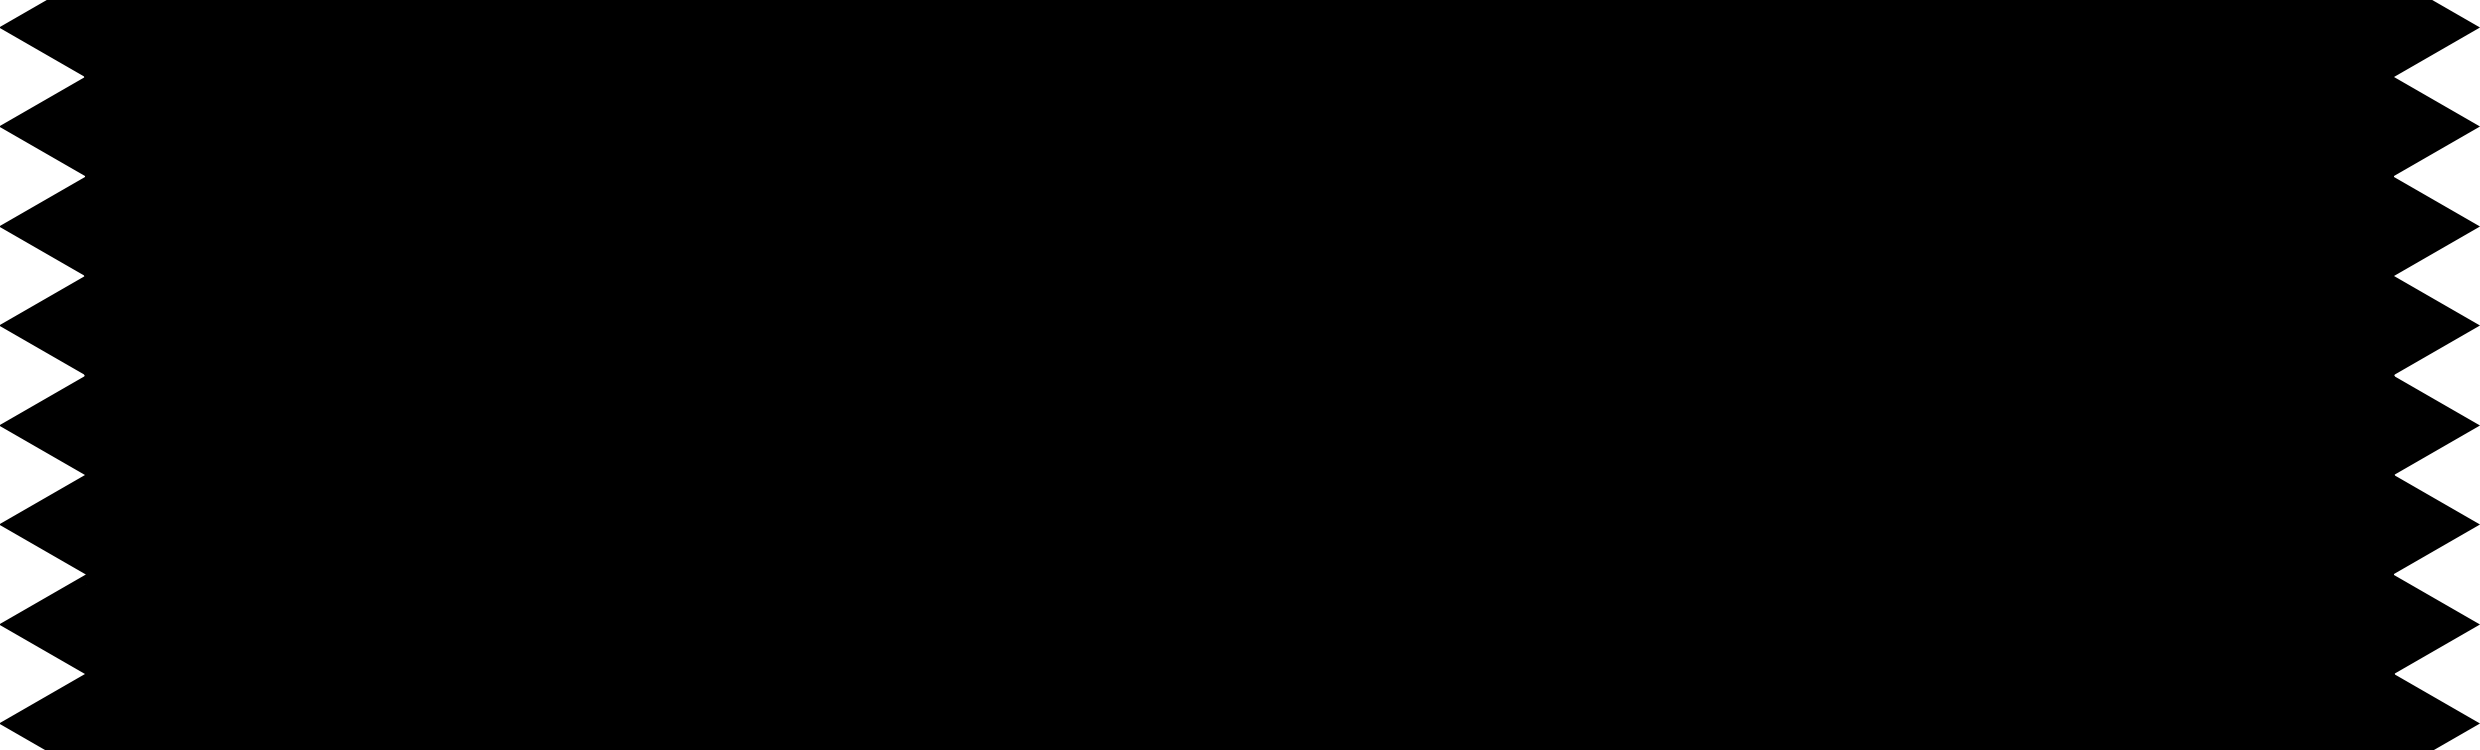
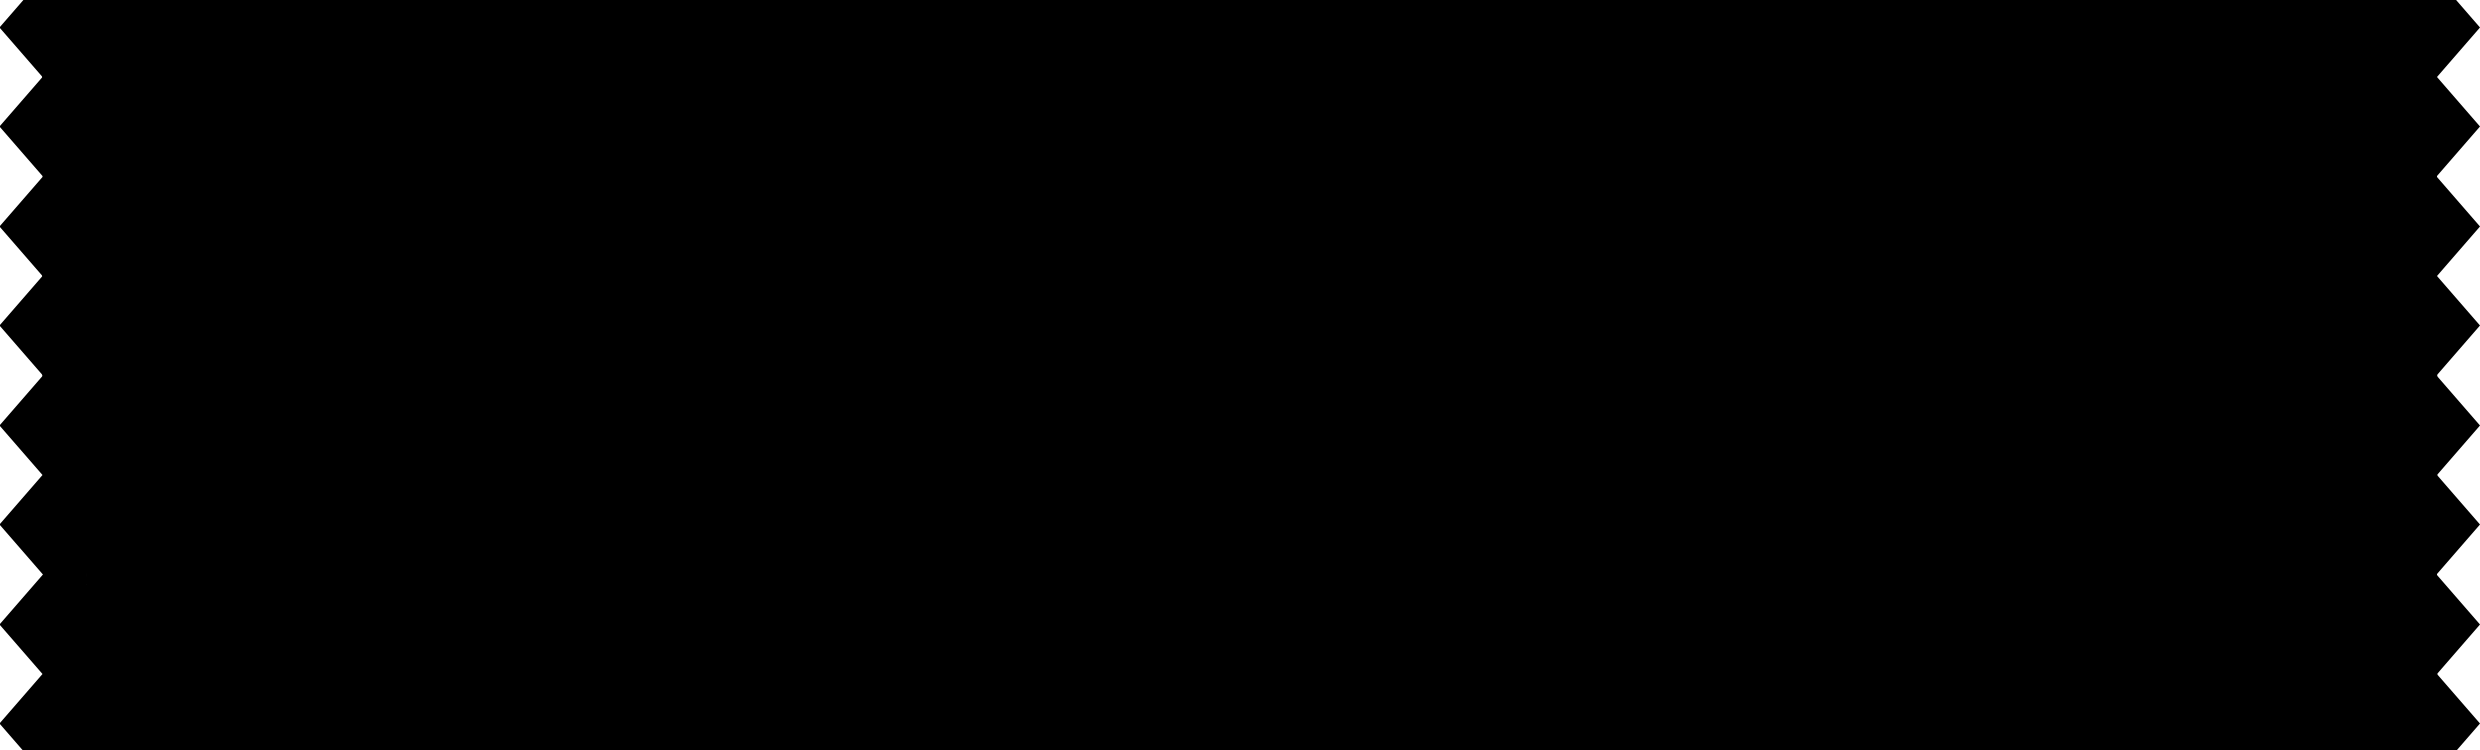
changement de l'image de transition

diff --git a/SAE101/MainWindow.xaml b/SAE101/MainWindow.xaml
@@ -110,54 +110,74 @@
                 <ImageBrush ImageSource="img/vague.png" />
             </Rectangle.Fill>
         </Rectangle>
-        <Grid x:Name="Menu" Visibility="Visible" Width="1250" Height="750" Panel.ZIndex="500">
+        <Grid
+            x:Name="Menu"
+            Width="1250"
+            Height="750"
+            Panel.ZIndex="500"
+            Visibility="Visible">
             <Canvas
-            Width="750"
-            Height="750" HorizontalAlignment="Left" VerticalAlignment="Center" Margin="-250,0,0,0">
+                Width="750"
+                Height="750"
+                Margin="-250,0,0,0"
+                HorizontalAlignment="Left"
+                VerticalAlignment="Center">
                 <Canvas.Background>
                     <ImageBrush ImageSource="/img/transition.png" />
                 </Canvas.Background>
             </Canvas>
             <Label
-            x:Name="titre"
-            Content="FISH"
-            FontFamily="{StaticResource Police}"
-            FontSize="120"
-            Foreground="White" Margin="75,75,0,0" VerticalAlignment="Top" />
+                x:Name="titre"
+                Margin="75,75,0,0"
+                VerticalAlignment="Top"
+                Content="FISH"
+                FontFamily="{StaticResource Police}"
+                FontSize="120"
+                Foreground="White" />
             <Label
-            x:Name="btnJouer"
-            Content="Jouer"
-            FontFamily="{StaticResource Police}"
-            FontSize="32"
-            Foreground="White" MouseLeftButtonUp="Jouer" VerticalAlignment="Center" HorizontalAlignment="Left" Margin="75,-100,0,0" />
+                x:Name="btnJouer"
+                Margin="75,-100,0,0"
+                HorizontalAlignment="Left"
+                VerticalAlignment="Center"
+                Content="Jouer"
+                FontFamily="{StaticResource Police}"
+                FontSize="32"
+                Foreground="White"
+                MouseLeftButtonUp="Jouer" />
             <Label
-            x:Name="btnQuitter"
-            Content="Quitter"
-            FontFamily="{StaticResource Police}"
-            FontSize="32"
-            Foreground="White"
-            MouseLeftButtonUp="Quitter" VerticalAlignment="Center" HorizontalAlignment="Left" Margin="75,100,0,0" />
+                x:Name="btnQuitter"
+                Margin="75,100,0,0"
+                HorizontalAlignment="Left"
+                VerticalAlignment="Center"
+                Content="Quitter"
+                FontFamily="{StaticResource Police}"
+                FontSize="32"
+                Foreground="White"
+                MouseLeftButtonUp="Quitter" />
             <Canvas
-            x:Name="record"
-            Width="309"
-            Height="100" HorizontalAlignment="Left" VerticalAlignment="Center" Margin="75,500,0,0">
+                x:Name="record"
+                Width="309"
+                Height="100"
+                Margin="75,500,0,0"
+                HorizontalAlignment="Left"
+                VerticalAlignment="Center">
                 <Rectangle
-                Canvas.Top="10"
-                Width="100"
-                Height="100">
+                    Canvas.Top="10"
+                    Width="100"
+                    Height="100">
                     <Rectangle.Fill>
                         <ImageBrush ImageSource="/img/record.png" Stretch="UniformToFill" />
                     </Rectangle.Fill>
                 </Rectangle>
                 <Label
-                x:Name="lbRecord"
-                Canvas.Left="120"
-                Canvas.Bottom="0"
-                Content="0"
-                FontFamily="{StaticResource Police}"
-                FontSize="48"
-                Foreground="White"
-                MouseLeftButtonUp="Quitter" />
+                    x:Name="lbRecord"
+                    Canvas.Left="120"
+                    Canvas.Bottom="0"
+                    Content="0"
+                    FontFamily="{StaticResource Police}"
+                    FontSize="48"
+                    Foreground="White"
+                    MouseLeftButtonUp="Quitter" />
             </Canvas>
         </Grid>
     </Canvas>
